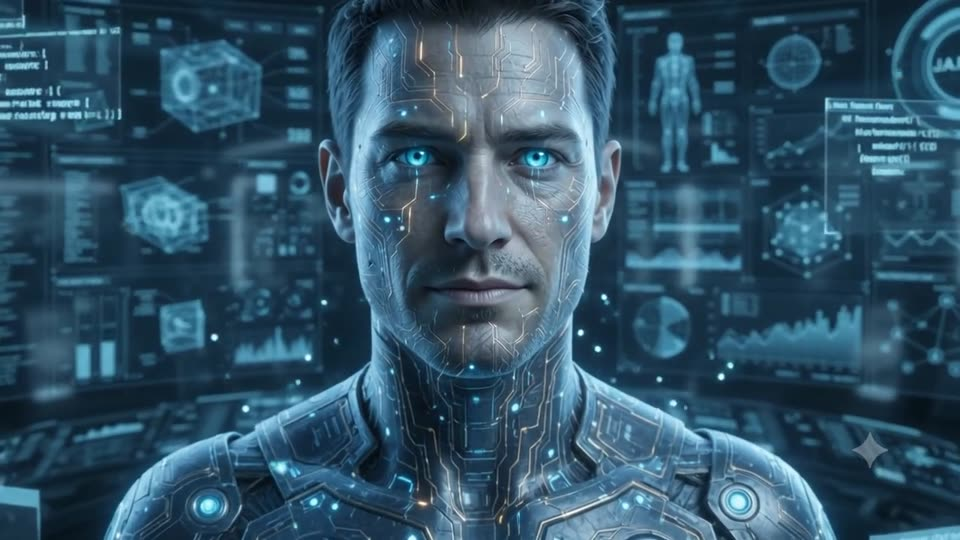
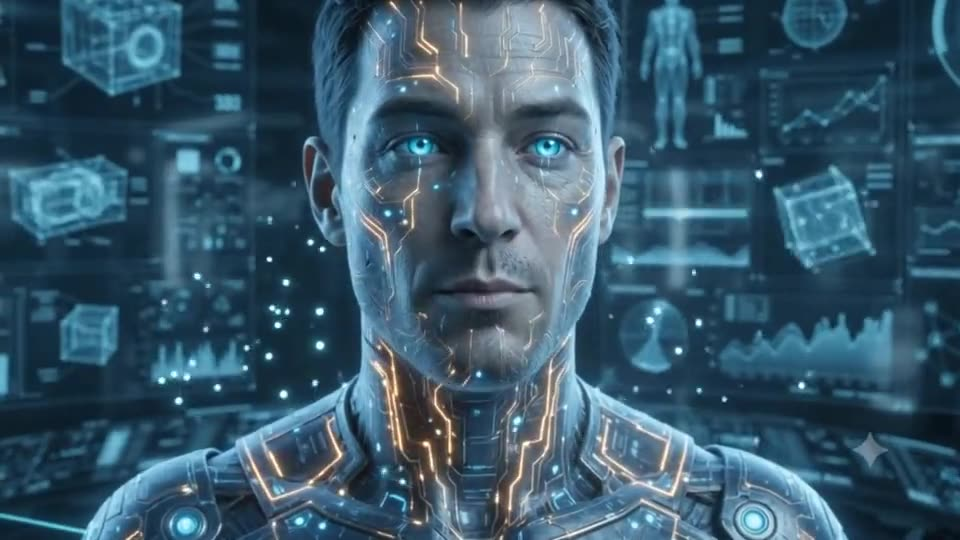
fix(gateway): trim text intro from Jarvis loop, confirm no audio, brighten scene
- Loop now starts at 2.2s (past the code-editor intro frames) — opens straight
  on Jarvis. 1.58MB, zero audio streams (ffprobe verified; player muted too).
- Scene was too dark (Craig): video brightness .55->.9, dropped desaturation,
  shade gradient lightened to a top/bottom fade so Jarvis is clearly visible;
  chat stays readable via existing bubble backdrop-blur.

diff --git a/public/gateway.html b/public/gateway.html
@@ -28,11 +28,11 @@
   #scene { position: fixed; inset: 0; z-index: -2; overflow: hidden; }
   #bgVideo {
     width: 100%; height: 100%; object-fit: cover; object-position: 50% 22%;
-    filter: saturate(.9) brightness(.55);
+    filter: brightness(.9);
   }
-  #sceneShade { /* keeps chat readable over the video */
+  #sceneShade { /* light top/bottom fade only — Jarvis stays visible */
     position: fixed; inset: 0; z-index: -1;
-    background: linear-gradient(180deg, #06090fd9 0%, #06090f99 30%, #06090f80 55%, #06090fe6 100%);
+    background: linear-gradient(180deg, #06090f80 0%, #06090f26 25%, #06090f1a 55%, #06090fb3 100%);
   }
   #voiceGlow { /* the reactive layer — breathes with Jarvis's actual state */
     position: fixed; inset: 0; z-index: -1; pointer-events: none;